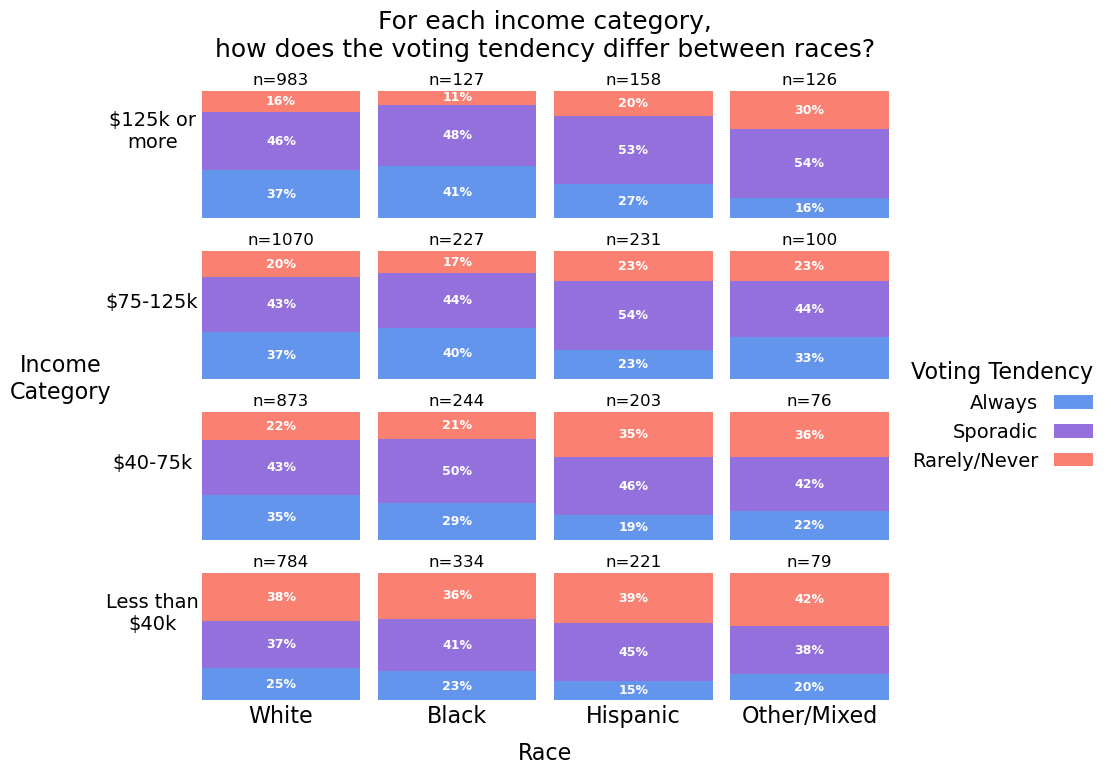
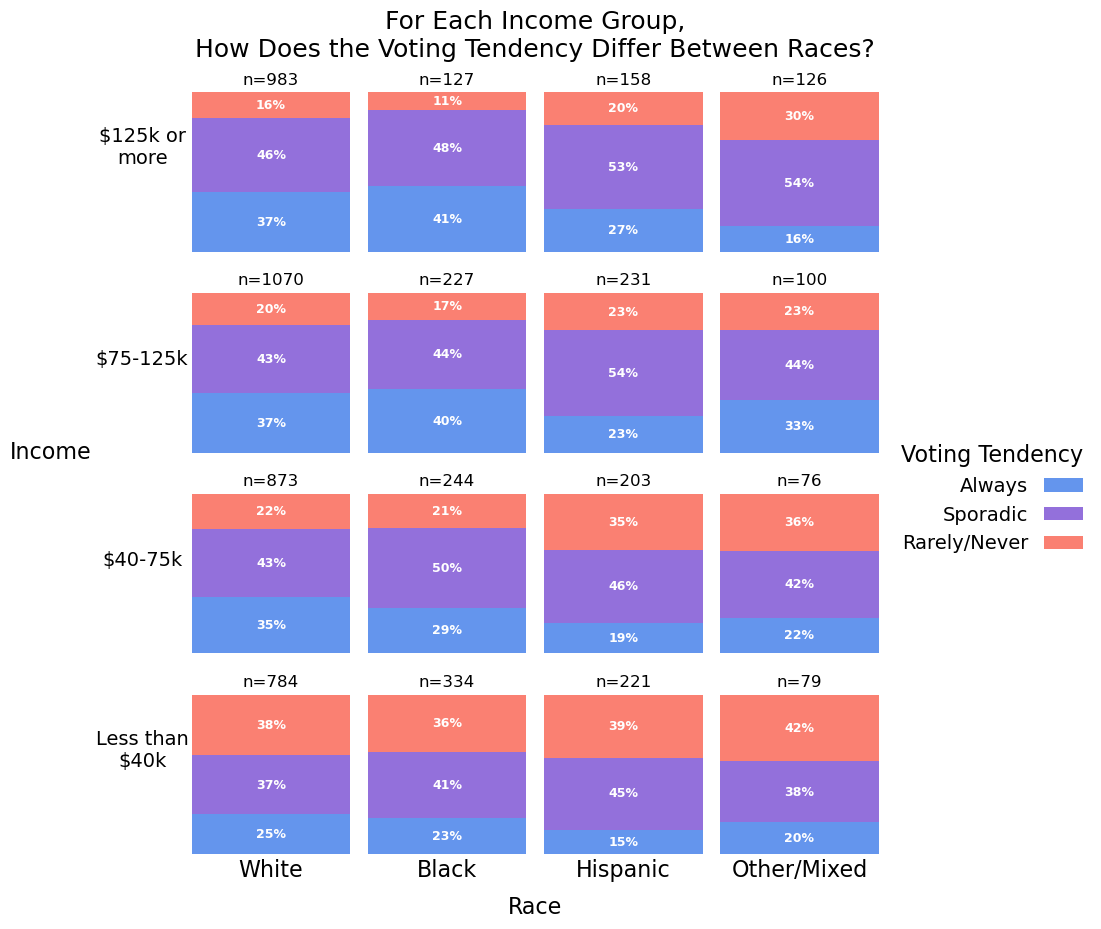
Updated after visiting office hour👩🏫

diff --git a/index_copy.html b/index_copy.html
@@ -18,7 +18,7 @@
 			<a href="https://www.nytimes.com/2020/10/08/upshot/youth-voting-2020-election.html">[2]</a>.
             However, there is no clear proposition on racial disparities in voting tendencies &#8212;
             most researches studying voting tendency by race only show the percentage of the voter turnout.
-            They do not study what voting tendency certian ethnic group shows
+            They do not study what voting tendency certain ethnic group shows
             <a href="https://www.pewresearch.org/fact-tank/2020/10/26/what-the-2020-electorate-looks-like-by-party-race-and-ethnicity-age-education-and-religion/">[3]</a>.
             Through analyzing the voting pattern of American population, we will examine whether the people of each race vote differently.
             
@@ -28,59 +28,61 @@
             The survey data can be found from their GitHub as well <a href="https://github.com/fivethirtyeight/data/tree/master/non-voters">[5]</a>.
             The survey has asked 5,355 citizens of the United States in total. 
 			The sample includes 3,710 White people, 932 Black people, 813 Hispanic people, and 381 other/mixed people.
-            By income group, it consists 1,394 people who makes more than $125k a year, 1,628 people of $75-125k a year, 1,396 people of $40-75k a year, and $1,418 people of less than $40k a year.
-            The following figure shows the composition sample population by race and income group.
+            By income group, it consists 1,394 people who makes more than $125k a year, 1,628 people of $75-125k a year, 1,396 people of $40-75k a year, and 1,418 people of less than $40k a year.
+            The following figure shows the composition of the sample by race and income group.
 
             <figure>
-                <img src="figures/00_mosaic2.png" class="responsive">
-                <figcaption>Figure 01: A mosaic plot showing visual representation of each race and income category.</figcaption>
+                <img src="figures/00_mosaic.png" class="responsive">
+                <figcaption>Figure 1: A mosaic plot showing visual representation of each race and income group.</figcaption>
             </figure>
 
             This composition was weighted to represent the population of the U.S. citizens.
-            One thing to note is that the survey was taken from September 15th to September 25th of 2020, which is before the 2020 presidential elections.
+            One thing to notice is that the survey was taken from September 15th to September 25th of 2020, which is before the 2020 presidential election.
 
-        <h2>The Voting Tendency of the Voters based on Race</h2>
+        <h2>Voting Tendency of the Voters based on Race</h2>
 			<p>
-				First, we will examine if there are any significant differences in the voting tendencies by race within each income category. 
+				First, we will examine if there are any significant differences in the voting tendencies by race within each income group. 
 				The visualization shows what percentage of the people always vote, sporadically vote, or never vote for each racial and income classification.
-				Each voting tendencies are defined as the follows:
+				Each voting tendencies are defined as follows:
 				<ul>
 					<li>People who always votes are people who voted for all or all-but-one of the past elections they were eligible.</li>
 					<li>People who sporadically votes are people who voted for fewer than all-but-one yet more than once in the past elections they were eligible.</li>
 					<li>People who rarely or never votes are people who never voted or voted only once for the past elections they were eligible.</li>
 				</ul>
 				<figure>
-					<img src="figures/01_stackedBarPlot2.png" class="responsive"> <!--class="center" style = "width: 1000px">-->
-					<figcaption>Figure 02: Stacked bar plots representing the percentage of the population's voting tendency based on their race and income.</figcaption>
+					<img src="figures/01_stackedBarPlot.png" class="responsive"> <!--class="center" style = "width: 1000px">-->
+					<figcaption>Figure 2: A stacked bar plots representing the percentage of the population's voting tendency based on their race and income.
+						<br>The number above the stacked bar shows the number of sample in each group.
+					</figcaption>
 				</figure>
 				Through this figure, we can see that the White voters and the Black voters have similar voting patterns across various income. 
-				On the other hand, Hispanic and others/mixed voters votes less compared to White and Black constituencies. 
+				On the other hand, Hispanic and others/mixed voters are less likely to vote than White and Black constituencies. 
 				This pattern is more apparent for the income groups of '$125k or more' and '$40-75k.' 
-				We can also observe that the number of people who always vote or sporadically votes decreases as the income decreases. 
+				We can also observe that the number of people who always vote or sporadically votes decreases as income decreases. 
 				The only exception to this is the others/mixed voters: 
-				they have more percentage of people who always or sporadically vote in the '$75-125k' income category than the '$125k or more' category.
+				they have bigger share of people who always or sporadically vote in the '$75-125k' income group than the '$125k or more' group.
 			</p>
 
 			<p>
-				One thing to note about the visualization is that, White is the largest racial group of the United States constituencies.
+				One thing to pay attention about the visualization is that, White is the largest racial group of the United States constituencies.
 				Thus, it is much more rational to generalize the voting trend of the White voters compared to other ethnicities.
 			</p>
 
-        <h2>The Trend of Voting Tendency in Recent Elections</h2>
+        <h2>Trend of Voting Tendency in Recent Elections</h2>
 			<p>
-				Next, we will study the voting history of the surveyed population. 
-				The plot below shows what percentage of people voted or did not vote in the recent six elections.
-				The trend of the percentage of people who voted for each income category are similar to that of figure 2:
+				Next, we will study the voting trend of the surveyed population. 
+				The plot below shows what percentage of people voted <!--or did not vote--> in the recent six elections.
+				The trend of the percentage of people who voted for each income group are similar to that of figure 2:
 				the people with high income have voted more during the past elections, while the people with low income have voted less.
 				The plot also looks like a wave which shows that more people tend to vote for the presidential election than the congressional elections. 
 				Thus, we can learn that the population perceives presidential elections more importantly than the congressional election. 
-				One event that does not follow this is the Hispanic constituency for the 2010 congressional elections: 
+				One event that does not follow this tendency is the Hispanic constituency for the 2010 congressional elections: 
 				Hispanic voters with the income groups of '$40-75k' and 'Less than $40k' voted more for the 2010 congressional election than the 2008 presidential elections.
 			</p>
 			
 			<figure>
-				<img src="figures/02_time2.png" class="responsive">
-				<figcaption>Figure 03: The percentage of the population's voting history based on their race and income.</figcaption>
+				<img src="figures/02_time.png" class="responsive">
+				<figcaption>Figure 3: A line plot showing the percentage of the sample who voted for the six recent elections based on their race and income.</figcaption>
 			</figure>
 			
 			<p>
@@ -113,8 +115,8 @@
 			</p>
 		
 			<figure>
-				<img src="figures/futureVoting7.png" class="responsive">
-				<figcaption>Figure 04: The percentage of the population's voting plan for the 2020 presidential electino based on their race and income category.</figcaption>
+				<img src="figures/03_futureVoting.png" class="responsive">
+				<figcaption>Figure 4: The percentage of the population's voting plan for the 2020 presidential electino based on their race and income category.</figcaption>
 			</figure>
         
         <h2>Conclusion</h2>
@@ -147,14 +149,14 @@
         <b>Minkyong Song<br>William & Mary</b>
     </footer>
 
-    <!--
+	<!--
     <aside class="sidebar" role="complementary">
 		<div class="wrapper">
-                <h3><b></b></h3>
+                <h3><b>Navigate To:</b></h3>
 				<nav role="navigation">
 					<ul>
 					<li>
-						<a href="index.html">Main Page</a> 
+						<a href="index_copy.html">Main Page</a> 
                     </li>					<li>
 						<a href="01_voting_trend.html">Voting Trend by Race</a>			
 					</li>					<li>
@@ -171,7 +173,7 @@
                 </div>
 				</nav>
 		</div>
+	-->
 
-    -->
 </body>
 </html>

diff --git a/css/style.css b/css/style.css
@@ -20,7 +20,7 @@ body {
 	background: #fff no-repeat bottom right; /* image at the bottom right */
 	margin: 0;
 	margin-right: 80px; 
-	margin-bottom: 50px;
+	margin-bottom: 70px;
 	padding: 0;
 	}
 p { 
